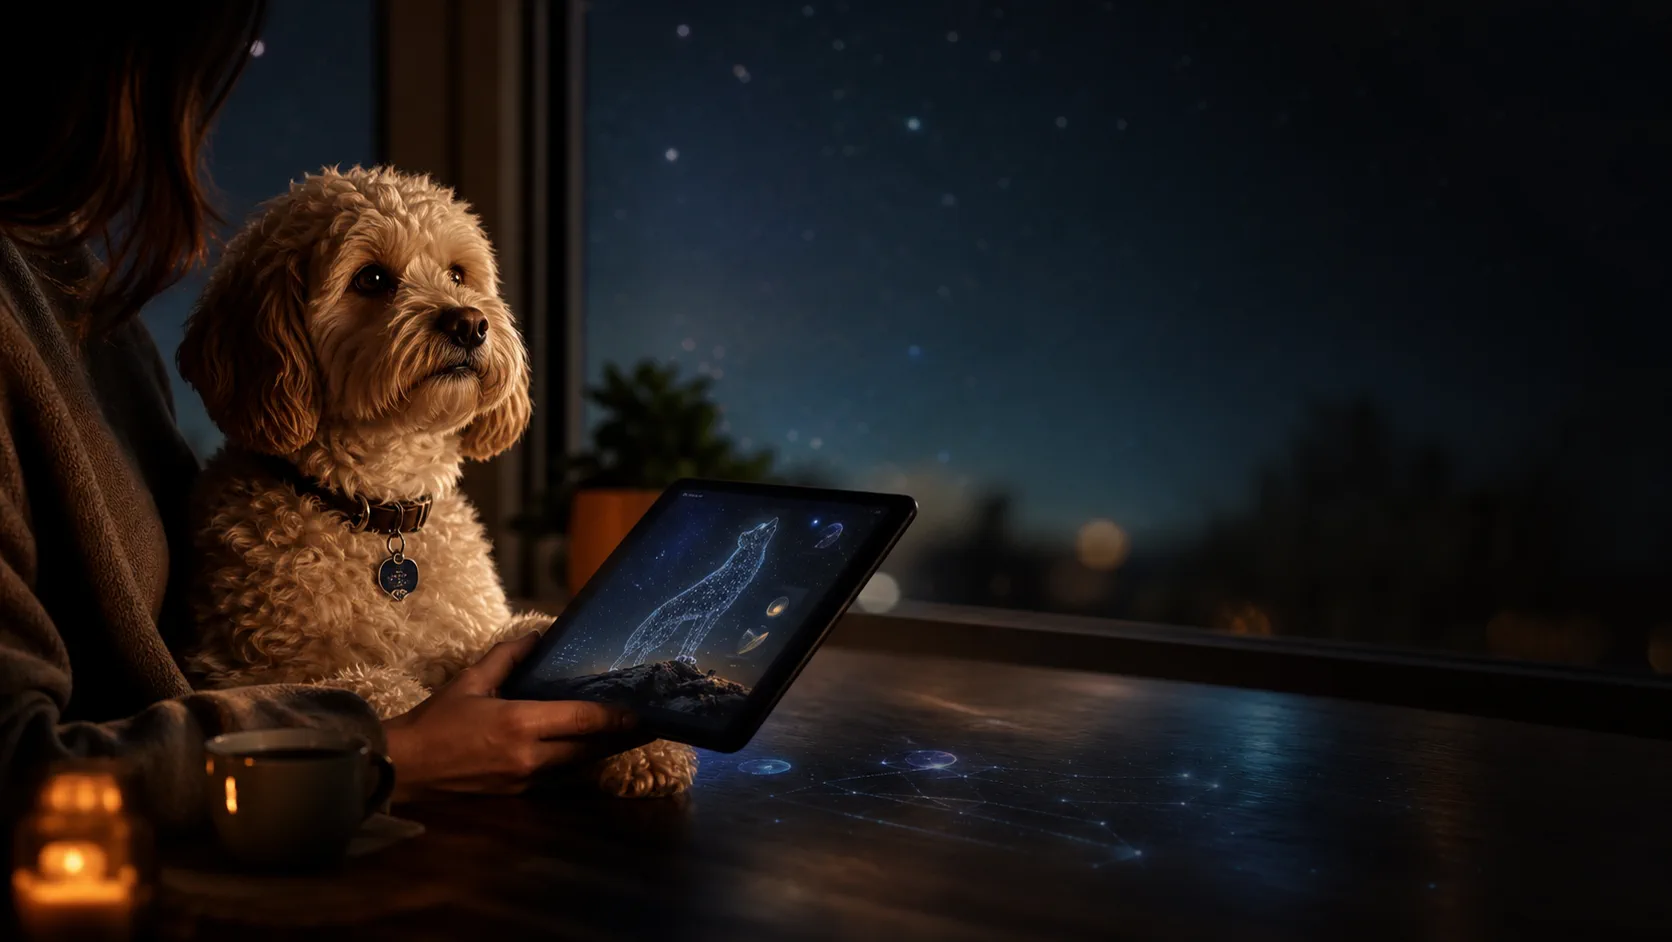
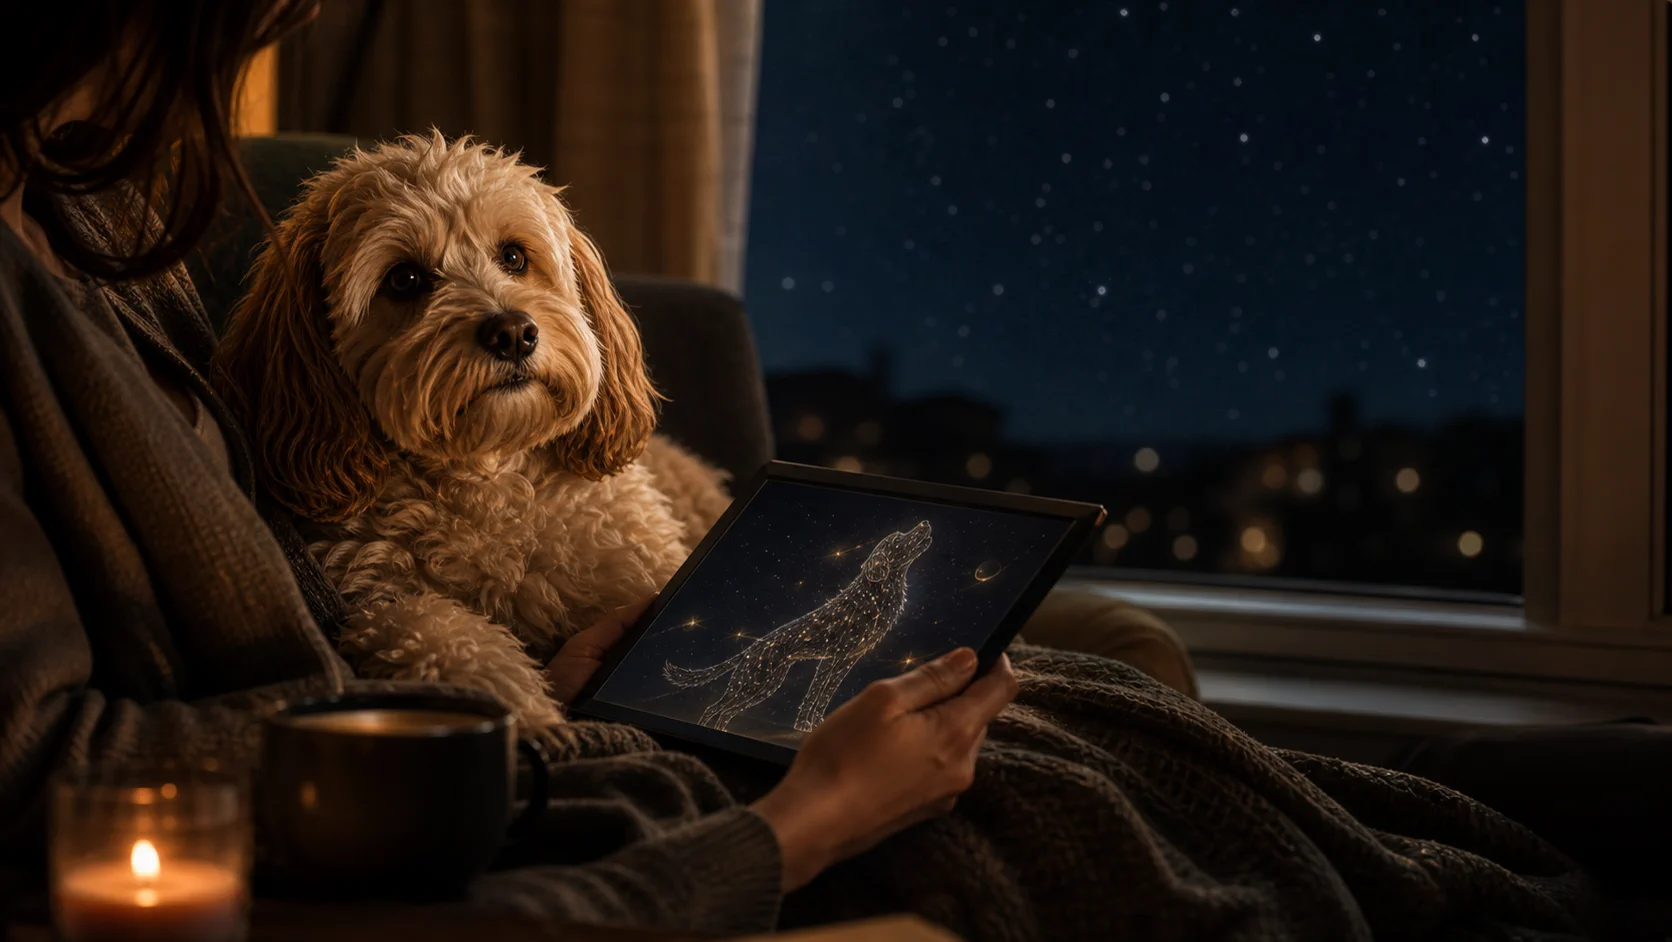
Sharpen soul reading sales copy

diff --git a/src/components/funnel-v2/ReadingsLanding.tsx b/src/components/funnel-v2/ReadingsLanding.tsx
@@ -639,16 +639,15 @@ function QuietMomentSection() {
           <div className="ls-story-copy">
             <p style={eyebrowStyle(C.gold)}>The full reading</p>
             <h2 className="mt-5 text-balance" style={sectionTitleStyle}>
-              Turn their birth sky into the story of who they are.
+              Finally, words for the bond you feel.
             </h2>
             <p className="mt-6 text-pretty" style={sectionBodyStyle}>
-              The free mini reading opens the door. The full reading goes deeper:
-              how they love, what steadies them, what they carry quietly, and why
-              the bond between you feels the way it does.
+              Their sky becomes a keepsake: how they love, what they need, and
+              why they feel like home.
             </p>
             <div className="ls-story-quote mt-9 border-l pl-6" style={{ borderColor: C.gold }}>
               <p style={quoteStyle}>
-                "I knew that look meant something. I just never had words for it before."
+                "That look had a language."
               </p>
             </div>
           </div>
@@ -676,11 +675,10 @@ function QuietMomentSection() {
               />
             </figure>
             <div>
-              <p style={eyebrowStyle(C.gold)}>A reading you sit with</p>
-              <h3>Made to be opened again.</h3>
+              <p style={eyebrowStyle(C.gold)}>Keep it close</p>
+              <h3>Open it when you miss them.</h3>
               <p>
-                Read it when they are beside you, when you miss them, or when you
-                want to remember the small truths only you noticed.
+                A quiet reading to return to, not a one-time scroll.
               </p>
             </div>
           </article>
@@ -696,11 +694,10 @@ function QuietMomentSection() {
               />
             </figure>
             <div>
-              <p style={eyebrowStyle(C.gold)}>Their hidden pattern</p>
-              <h3>Softness, courage, instinct.</h3>
+              <p style={eyebrowStyle(C.gold)}>See their nature</p>
+              <h3>What they need. How they love.</h3>
               <p>
-                The reading turns their placements into a portrait of their nature:
-                what soothes them, what drives them, and how they ask for love.
+                Their softness, courage and little patterns, written back to you.
               </p>
             </div>
           </article>
@@ -708,17 +705,17 @@ function QuietMomentSection() {
 
         <div className="ls-receive-panel">
           <div>
-            <p style={eyebrowStyle(C.gold)}>What you receive</p>
+            <p style={eyebrowStyle(C.gold)}>Inside</p>
             <h2 className="mt-4 text-balance" style={sectionTitleStyle}>
-              A keepsake with depth, not filler.
+              Everything you need to feel closer.
             </h2>
           </div>
           <div className="ls-receive-grid">
             {[
-              ["Birth sky placements", "Sun, Moon and the chart patterns that make them, them."],
-              ["Emotional blueprint", "How they bond, soften, protect, play and ask to be understood."],
-              ["SoulSpeak included", "A gentler voice for the things you always felt from them."],
-              ["Horoscope included", "A living follow-on for their current sky, not just the day they arrived."],
+              ["Their sky", "The real placements that shaped them."],
+              ["Love language", "How they ask for comfort, trust and attention."],
+              ["SoulSpeak", "The message you wish they could say."],
+              ["Horoscope", "Their current sky, gently translated."],
             ].map(([title, body]) => (
               <article key={title} className="ls-receive-item">
                 <strong>{title}</strong>